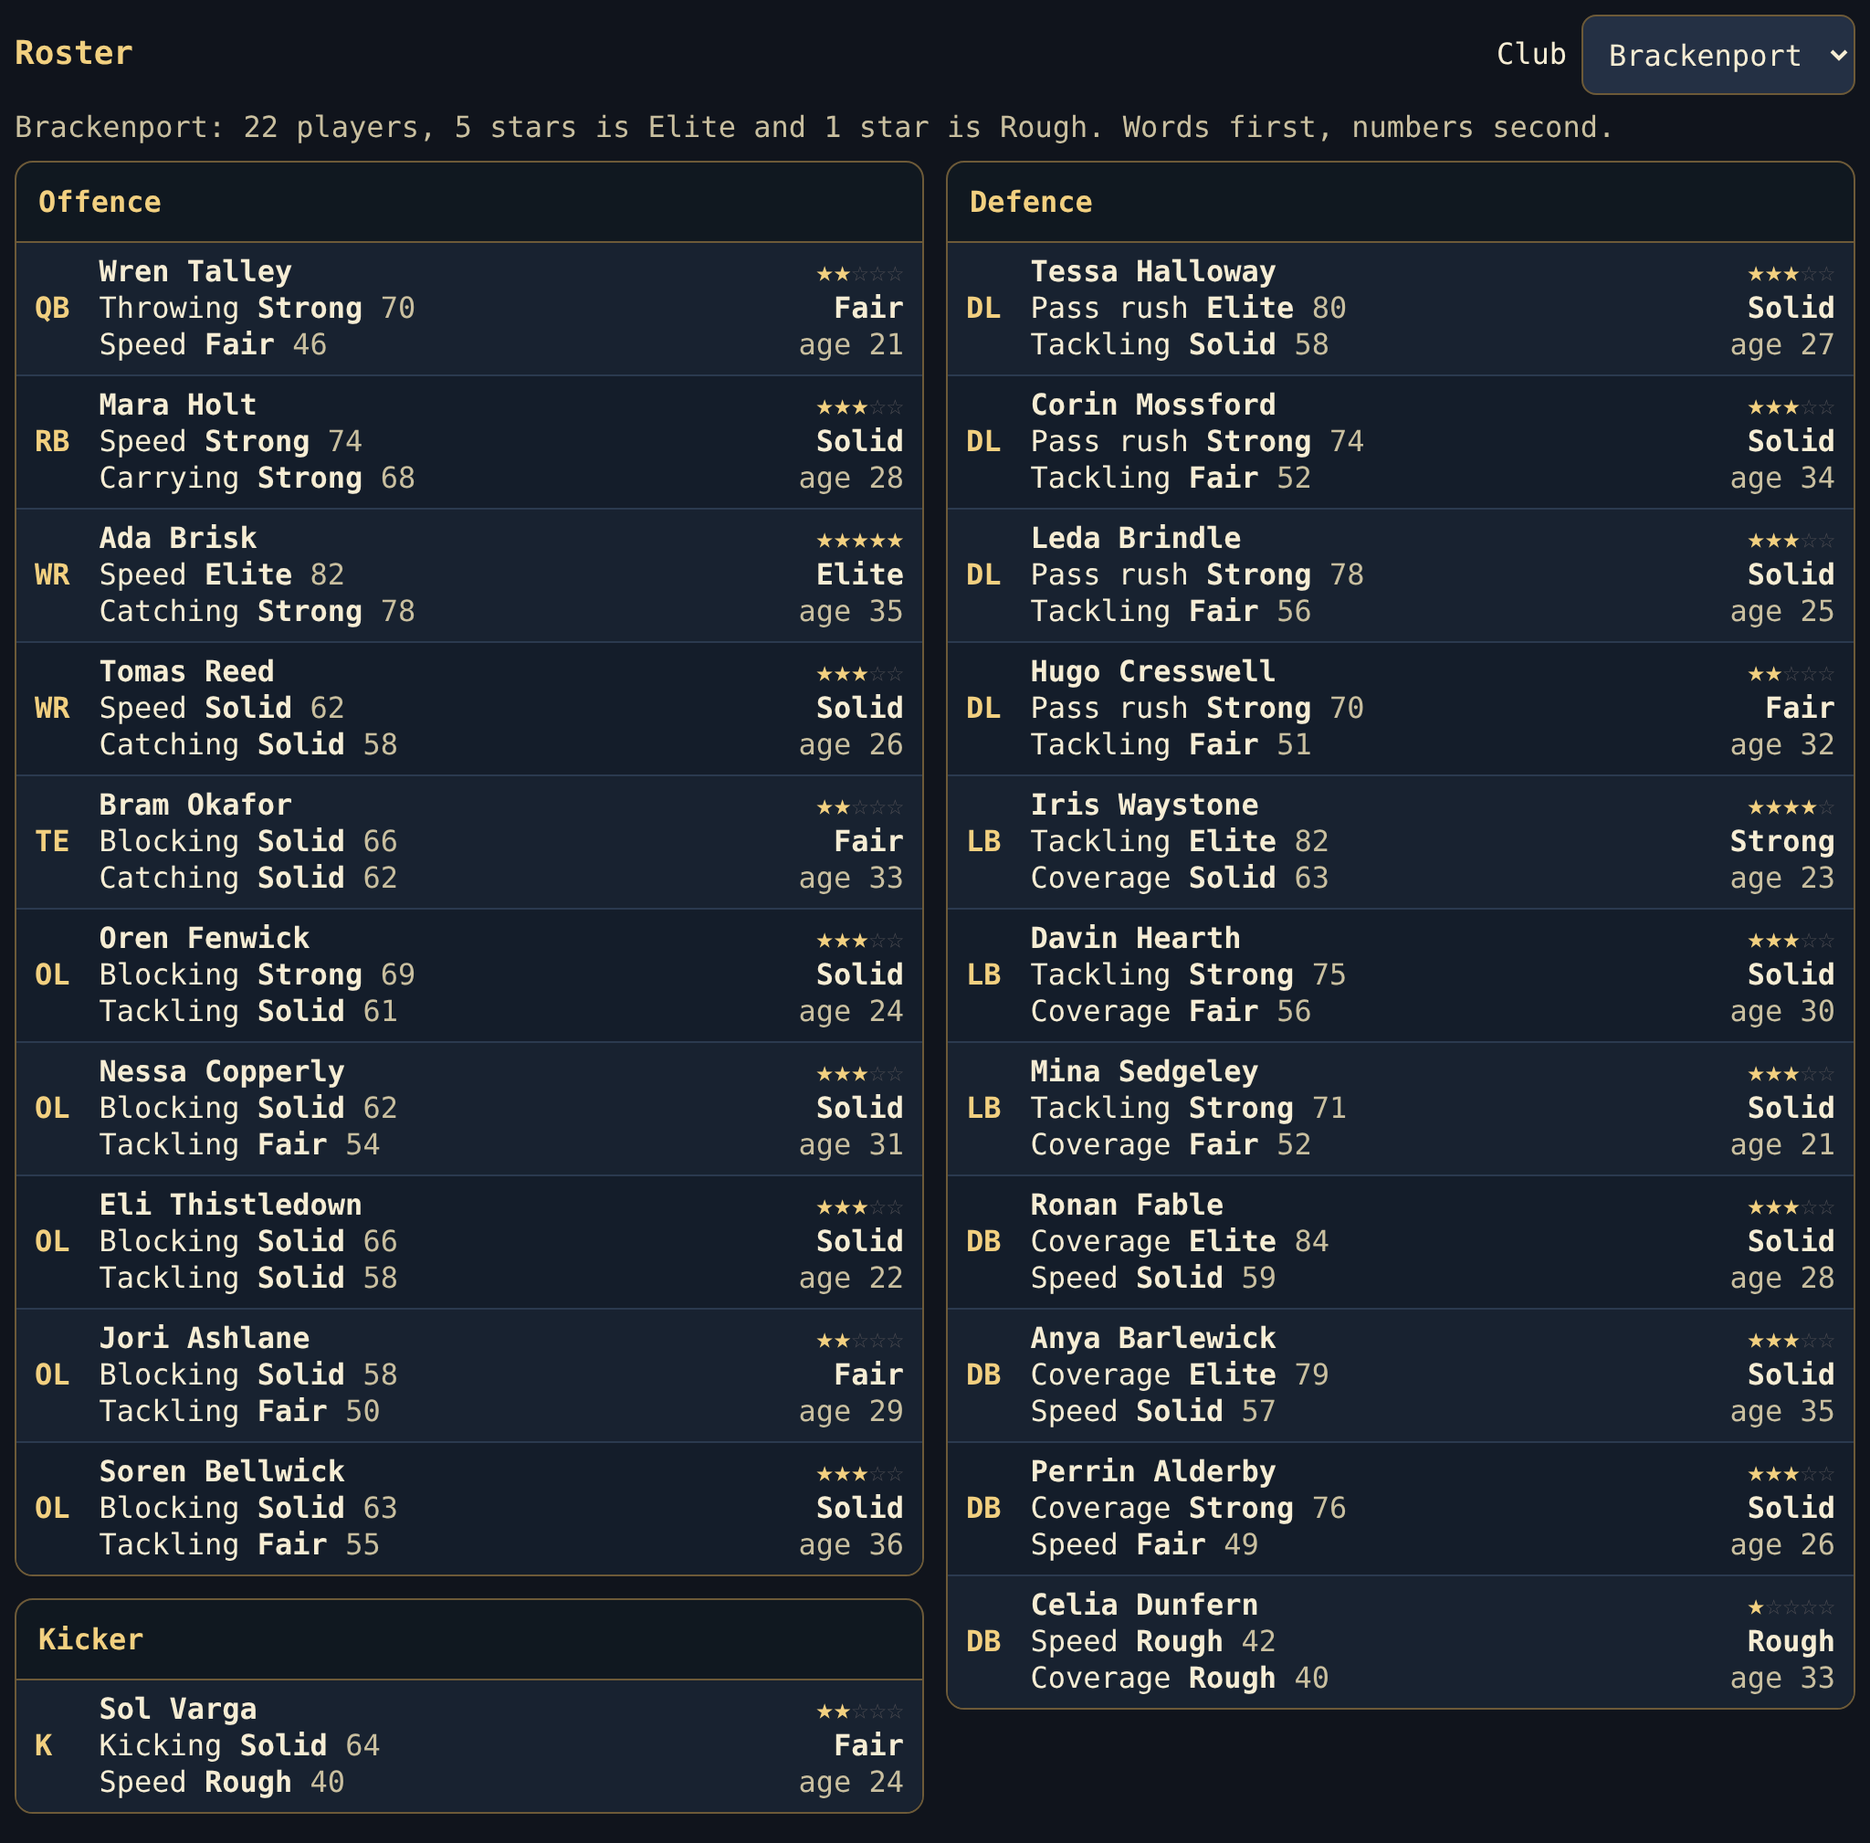
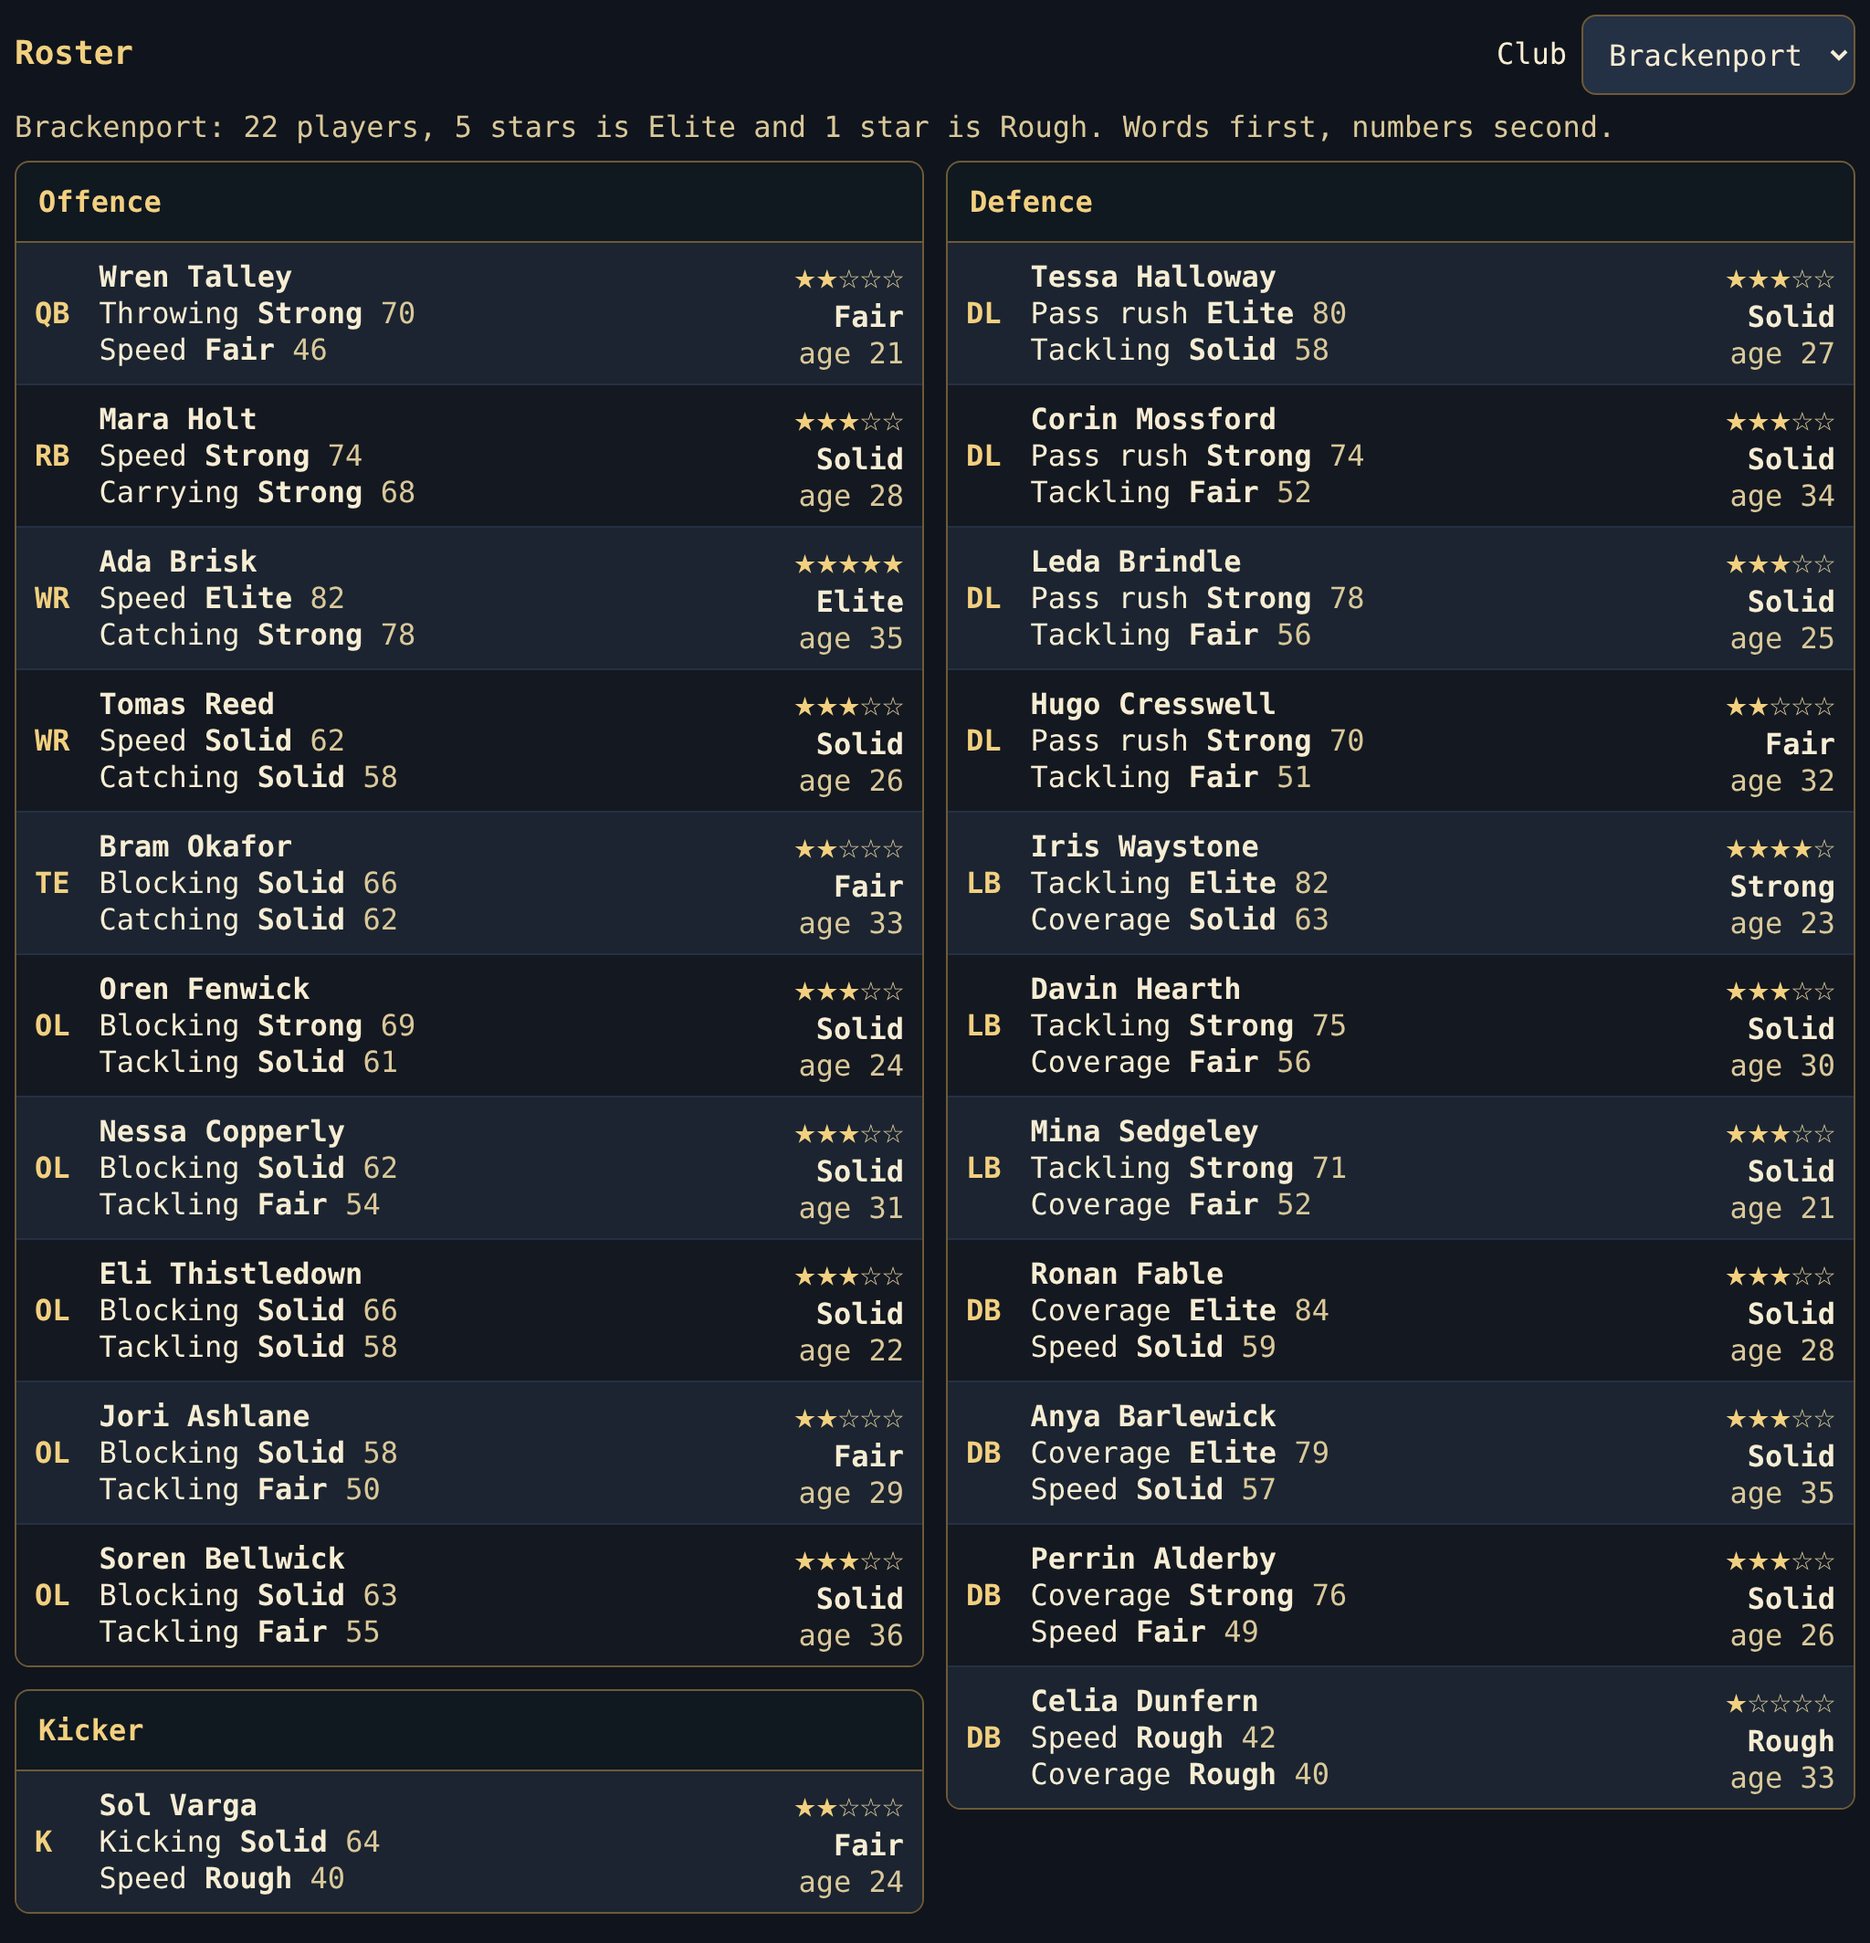
Use only colours Lantern Bowl already has in the roster view, and make the empty stars readable (LB-G7 review)

diff --git a/games/lantern-bowl/roster-view.js b/games/lantern-bowl/roster-view.js
@@ -89,18 +89,18 @@
   }
 
   var CSS =
-    '.lbrv-root{--lbrv-ink:#f6edd4;--lbrv-lamp:#f2d080;--lbrv-dim:#c9bf9f;--lbrv-line:#6d5a38;--lbrv-panel:#101820;--lbrv-row:#182230;' +
+    '.lbrv-root{--lbrv-ink:#f6edd4;--lbrv-lamp:#f2d080;--lbrv-dim:#d9c89a;--lbrv-line:#6d5a38;--lbrv-panel:#101820;--lbrv-row:#1b2430;' +
     'font:16px/1.25 ui-monospace,SFMono-Regular,Consolas,monospace;color:var(--lbrv-ink);display:grid;grid-template-columns:1fr;gap:12px;align-items:start}' +
     '@media (min-width:640px){.lbrv-root{grid-template-columns:1fr 1fr}' +
     '.lbrv-group[data-group="Offence"]{grid-column:1;grid-row:1}' +
     '.lbrv-group[data-group="Defence"]{grid-column:2;grid-row:1 / span 2}' +
     '.lbrv-group[data-group="Kicker"]{grid-column:1;grid-row:2}}' +
-    '.lbrv-group{border:1px solid var(--lbrv-line);border-radius:10px;background:var(--lbrv-panel);overflow:hidden;min-width:0}' +
+    '.lbrv-group{border:1px solid var(--lbrv-line);border-radius:8px;background:var(--lbrv-panel);overflow:hidden;min-width:0}' +
     '.lbrv-head{margin:0;padding:8px 12px;min-height:44px;display:flex;align-items:center;font-size:16px;font-weight:700;color:var(--lbrv-lamp);border-bottom:1px solid var(--lbrv-line)}' +
     '.lbrv-rows{list-style:none;margin:0;padding:0}' +
     '.lbrv-row{display:grid;grid-template-columns:1.7rem minmax(0,1fr) auto;column-gap:8px;align-items:center;min-height:44px;padding:6px 10px;background:var(--lbrv-row)}' +
-    '.lbrv-row+.lbrv-row{border-top:1px solid #2b3a4f}' +
-    '.lbrv-row:nth-child(even){background:#141d2a}' +
+    '.lbrv-row+.lbrv-row{border-top:1px solid #243044}' +
+    '.lbrv-row:nth-child(even){background:#141820}' +
     '.lbrv-slot{font-weight:700;color:var(--lbrv-lamp)}' +
     '.lbrv-who{min-width:0}' +
     '.lbrv-name{display:block;font-weight:700;overflow-wrap:anywhere}' +
@@ -109,8 +109,8 @@
     '.lbrv-rw{font-weight:700}' +
     '.lbrv-rn{color:var(--lbrv-dim)}' +
     '.lbrv-grade{text-align:right;white-space:nowrap}' +
-    '.lbrv-stars{display:block;font-size:16px;letter-spacing:0;color:var(--lbrv-lamp)}' +
-    '.lbrv-off{color:#4a4a50}' +
+    '.lbrv-stars{display:block;font-size:20px;letter-spacing:0;color:var(--lbrv-lamp)}' +
+    '.lbrv-off{color:#d9c89a}' +
     '.lbrv-word{display:block;font-weight:700}';
 
   function el(doc, tag, cls, text) {

diff --git a/docs/playtests/lb-roster-view/index.html b/docs/playtests/lb-roster-view/index.html
@@ -16,7 +16,7 @@
   label { display: flex; align-items: center; gap: 8px; margin-left: auto; }
   select { font: inherit; min-height: 44px; min-width: 150px; padding: 6px 10px; color: #f6edd4; background: #243044; border: 1px solid #6d5a38; border-radius: 8px; }
   select:focus-visible { outline: 3px solid #f2d080; outline-offset: 2px; }
-  #status { margin: 0 0 8px; color: #c9bf9f; }
+  #status { margin: 0 0 8px; color: #d9c89a; }
   #status.bad { color: #ff9b8f; }
   .club { margin: 0 0 24px; }
   .club > h2 { margin: 0 0 8px; font-size: 18px; color: #f2d080; }

diff --git a/docs/playtests/lb-roster-view/README.md b/docs/playtests/lb-roster-view/README.md
@@ -19,7 +19,7 @@ http://localhost:8731/docs/playtests/lb-roster-view/index.html
 - the player's **two best ratings**, each as a word then its number (`Pass rush Elite 80`);
 - a **1-to-5 star grade** and its word, from the player's overall (the mean of the ratings they have, as `tests/lantern-bowl-roster.cjs` defines it, rounded to a whole number): 35-45 one star (Rough), 46-56 two (Fair), 57-67 three (Solid), 68-78 four (Strong), 79-90 five (Elite).
 
-Rows are 72px tall at the phone sizes and never under 44px, and no text is under 16px. Offence (10) and the kicker (1) sit on the left on a wide screen and defence (11) on the right, so both sides are 11 rows. Below 640px wide it is one column. Reading order stays Offence, Defence, Kicker.
+Rows are 77px tall at the phone sizes and never under 44px, and no text is under 16px. Offence (10) and the kicker (1) sit on the left on a wide screen and defence (11) on the right, so both sides are 11 rows. Below 640px wide it is one column. Reading order stays Offence, Defence, Kicker.
 
 ## Screenshots (Chrome 154, 2x pixel ratio, Brackenport)
 
@@ -31,7 +31,7 @@ Rows are 72px tall at the phone sizes and never under 44px, and no text is under
 | `roster-1024x594.png` | 1024x594 | Top of the list on a small tablet or desktop window |
 | `roster-1024x594-full.png` | 1024 wide, full page | All 22 rows, for the full picture |
 
-`report.json` holds the measurements from the same run: 22 rows at each size, smallest row 72px, smallest text 16px, two columns, no sideways overflow, and no page error at any size, for all six clubs picked from the selector, and with all six drawn at once (132 rows).
+`report.json` holds the measurements from the same run: 22 rows at each size, smallest row 77px, smallest text 16px, two columns, no sideways overflow, and no page error at any size, for all six clubs picked from the selector, and with all six drawn at once (132 rows).
 
 ## Checks
 
@@ -39,4 +39,4 @@ Rows are 72px tall at the phone sizes and never under 44px, and no text is under
 
 ## For the Game Art Director
 
-Please look at the five screenshots. Things I would like a view on: the star and word treatment (filled and empty stars, with the word under them), the row density at 667x375, the dim empty stars (`#4a4a50` on the row colour), and whether the slot tags should be words (Line, Front, Backer) instead of OL, DL, LB, DB. The colours are the game's own (`#f6edd4` ink, `#f2d080` lamp, `#6d5a38` border). If you want the styles moved into `style.css`, that is the later LB-MANAGER wiring.
+Please look at the five screenshots. Things I would like a view on: the star and word treatment (filled and empty stars, with the word under them), the row density at 667x375, the empty stars (outline stars in `#d9c89a`, 9:1 or better on both row colours, drawn as outlines so they cannot be taken for lit ones), and whether the slot tags should be words (Line, Front, Backer) instead of OL, DL, LB, DB. The colours are the game's own (`#f6edd4` ink, `#f2d080` lamp, `#d9c89a` dim text, `#6d5a38` border, `#101820` panel, `#1b2430` and `#141820` rows, `#243044` row divider). If you want the styles moved into `style.css`, that is the later LB-MANAGER wiring.
